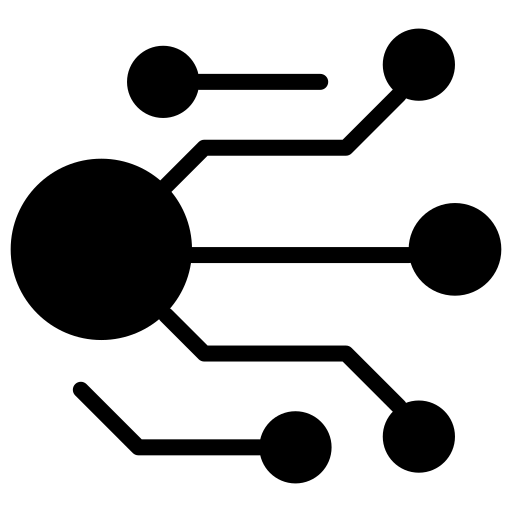
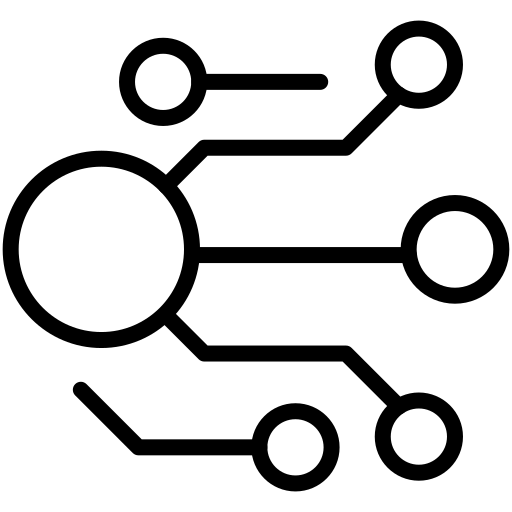
12/11/23 - 11:09

diff --git a/styles.css b/styles.css
@@ -3,26 +3,8 @@ body {
     font-family: 'Lucida Sans', 'Lucida Sans Regular', 'Lucida Grande', 'Lucida Sans Unicode', Geneva, Verdana, sans-serif;
     background-color: black;
     padding-block: var(--scroll-height);
+    overflow-x: hidden;
 }
-
-/*Referente a borda*/
-/* .section {
-    display: flex;
-    font-family: 'Courier New', Courier, monospace;
-    margin: 0;
-    padding: 25px;
-    background: black;
-    border-bottom: 3px solid;
-    border-image: linear-gradient(90deg,#0072fb, #34eca3) 1;
-    justify-content: center;
-    align-items: center;
-    width: 100%;
-    position: fixed;
-    top: 0;
-    left: 0;
-    z-index: 1000;
-    height: 100px;
-} */
 
 .div-mae {
     display: grid;
@@ -75,13 +57,12 @@ body {
     margin: 10px auto;
     pointer-events: auto;
     visibility: visible;
-    animation: slideDown 0.6s cubic-bezier(0.4, 0, 0.2, 1) forwards;
+    animation: slideDown 0.8s cubic-bezier(0.4, 0, 0.2, 1) forwards;
 }
 
 .hidden-list ul {
     margin: 0;
     padding: 0;
-    list-style: none;
     width: 100%;
 }
 
@@ -206,10 +187,12 @@ body {
 
 .outer-container {
     display: flex;
-    gap: 20px;
+    gap: 50px;
     justify-content: center;
     width: 100%;
-    margin-top: 120px;
+    margin-top: 50px;
+    padding-bottom: 20px;
+    overflow-x: hidden;
 }
 
 .column {
@@ -283,22 +266,6 @@ body {
     color: black;
     display: block;
     margin-top: 10px;
-}
-
-#text-grad:hover {
-    transform: scale(1.08);
-}
-
-#text-gradII:hover {
-    transform: scale(1.08);
-}
-
-#text-gradIII:hover {
-    transform: scale(1.08);
-}
-
-#text-gradIV:hover {
-    transform: scale(1.08);
 }
 
 .sectionIV:hover {
@@ -625,7 +592,7 @@ body {
 .sectionIV {
     padding: 4px;
     width: 70%;
-    background-image: linear-gradient(black, black), linear-gradient(4200deg, #ffffff, #91e3a5);
+    background-image: linear-gradient(black, black), linear-gradient(4200deg, #0ac8ee, #43df6a);
     background-origin: border-box;
     background-clip: content-box, border-box;
     color: white;
@@ -642,7 +609,7 @@ body {
 .sectionV {
     padding: 4px;
     width: 70%;
-    background-image: linear-gradient(black, black), linear-gradient(4200deg, #1296c5, #ffffff);
+    background-image: linear-gradient(black, black), linear-gradient(4200deg,#1296c5, #3712af);
     background-origin: border-box;
     background-clip: content-box, border-box;
     color: white;
@@ -659,7 +626,11 @@ body {
 .sectionII:hover,
 .sectionIII:hover,
 .sectionIV:hover,
-.sectionV:hover {
+.sectionV:hover,
+.sectionII .section-button:hover,
+.sectionIII .section-button:hover,
+.sectionIV .section-button:hover,
+.sectionV .section-button:hover {
     transform: scale(1.08);
     z-index: 3;
 }
@@ -685,3 +656,118 @@ body {
 }
 
 /* Administração */
+
+.header-container {
+    display: flex;
+    align-items: center;
+    justify-content: center;
+    gap: 20px;
+    padding: 20px;
+    width: 100%;
+    top: 0;
+    left: 0;
+    background-color: black;
+    z-index: 1000;
+    padding: 10px 0;
+}
+
+.logo {
+    width: 10%;
+    height: 15%;
+    object-fit: contain;
+}
+
+.circuit-icon.left {
+    width: 175px;
+    height: 175px;
+    display: inline-block;
+    background-image: url('technology.png');
+    background-size: contain;
+    background-repeat: no-repeat;
+    background-position: center;
+    filter: invert(42%) sepia(98%) saturate(1776%) hue-rotate(201deg) brightness(97%) contrast(98%); /* #136be9 */
+}
+
+.circuit-icon.right {
+    width: 175px;
+    height: 175px;
+    display: inline-block;
+    background-image: url('technology.png');
+    background-size: contain;
+    background-repeat: no-repeat;
+    background-position: center;
+    filter: invert(71%) sepia(98%) saturate(1352%) hue-rotate(116deg) brightness(92%) contrast(88%); /* #1cefa0 */
+    rotate: 180deg;
+}
+
+.credits {
+    position: fixed;
+    bottom: 10px;
+    right: 10px;
+    font-size: 12px;
+    opacity: 0.7;
+    z-index: 1000;
+}
+
+.credits a {
+    color: #000000;
+    text-decoration: none;
+}
+
+.credits a:hover {
+    color: #000000;
+    text-decoration: underline;
+}
+
+@keyframes colorChange {
+    0% {
+        filter: hue-rotate(0deg) brightness(150%) saturate(200%);
+    }
+    25% {
+        filter: hue-rotate(90deg) brightness(150%) saturate(200%);
+    }
+    50% {
+        filter: hue-rotate(180deg) brightness(150%) saturate(200%);
+    }
+    75% {
+        filter: hue-rotate(270deg) brightness(150%) saturate(200%);
+    }
+    100% {
+        filter: hue-rotate(360deg) brightness(150%) saturate(200%);
+    }
+}
+
+/* Ajuste para dispositivos móveis */
+@media (max-width: 768px) {
+    .header-container {
+        flex-direction: row;
+        justify-content: center;
+        align-items: center;
+        gap: 10px;
+        padding: 10px;
+    }
+
+    .logo {
+        width: 30%;
+        height: auto;
+    }
+
+    .circuit-icon.left,
+    .circuit-icon.right {
+        width: 100px;
+        height: 100px;
+    }
+}
+
+/* Ajuste adicional para telas muito pequenas */
+@media (max-width: 480px) {
+    .circuit-icon.left,
+    .circuit-icon.right {
+        width: 80px;
+        height: 80px;
+    }
+
+    .logo {
+        width: 40%;
+    }
+}

diff --git a/index.html b/index.html
@@ -200,6 +200,8 @@
                             otherList.classList.add('closing');
                             otherList.addEventListener('animationend', function () {
                                 otherList.classList.remove('active', 'closing');
+                                // Remove the manual style manipulation
+                                otherList.previousElementSibling.removeAttribute('style');
                             }, { once: true });
                         }
                     });
@@ -209,11 +211,22 @@
                         list.classList.add('closing');
                         list.addEventListener('animationend', function () {
                             list.classList.remove('active', 'closing');
+                            // Remove the manual style manipulation
+                            section.removeAttribute('style');
                         }, { once: true });
                     } else {
                         list.classList.remove('closing');
                         list.classList.add('active');
                     }
+                });
+
+                // Modify touchend handler to remove manual style manipulation
+                section.addEventListener('touchend', () => {
+                    setTimeout(() => {
+                        if (!section.nextElementSibling.classList.contains('active')) {
+                            section.removeAttribute('style');
+                        }
+                    }, 100);
                 });
             });
 
